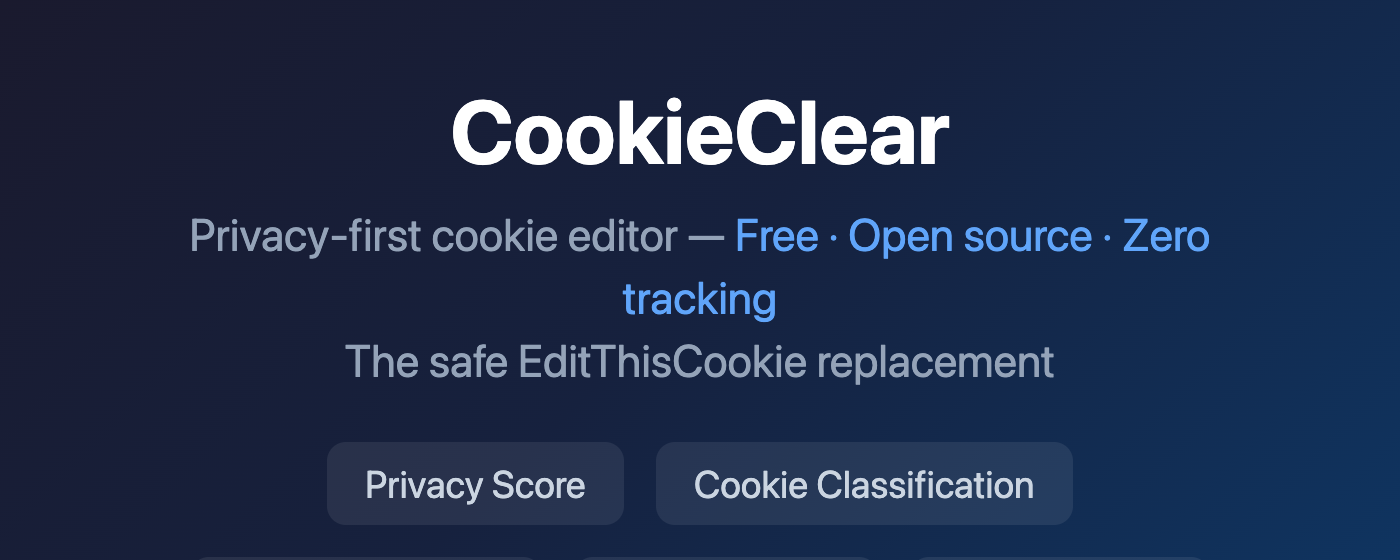
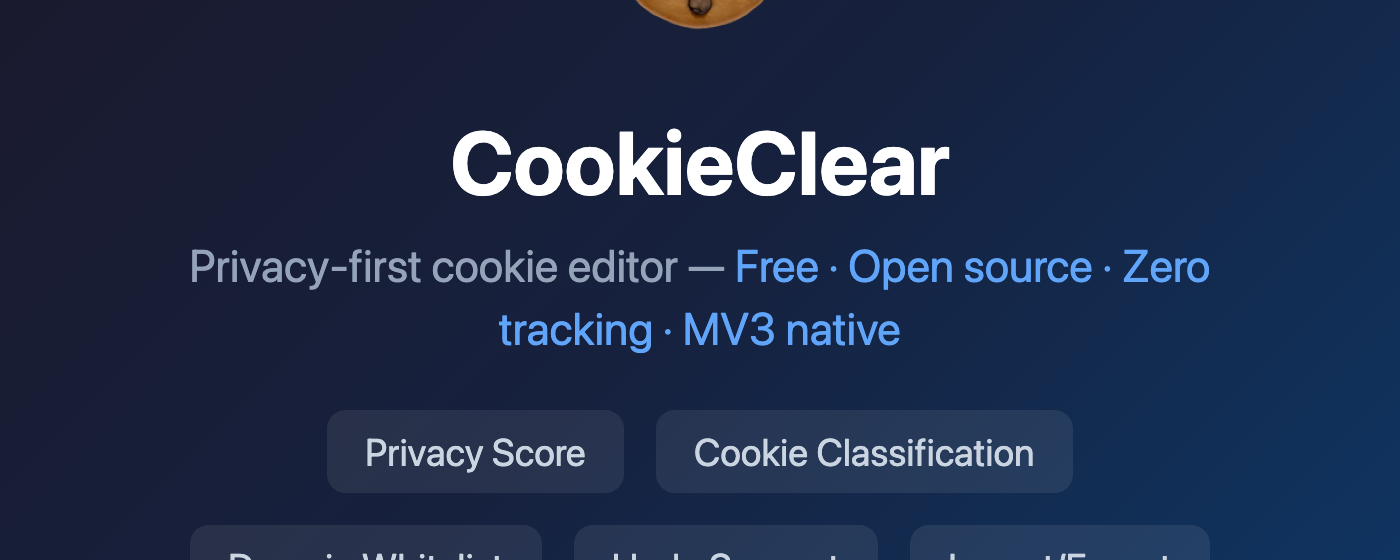
Fix residual competitor name in marquee promo tile
Pre-resubmit audit found the previous "keyword spam" cleanup missed the
marquee promo tile: promo/generate.js still generated a tile reading
"The safe EditThisCookie replacement", so marquee-tile.png (uploaded to
CWS) contained a competitor brand name.

- promo/generate.js: replace competitor tagline with "MV3 native"
- Regenerate small/large/marquee promo tiles (now competitor-name free)
- PRODUCT.md: remove competitor-brand keyword-targeting table
- STATUS.md: log the audit finding + fix

All store-visible assets (store listing, manifest, promo, screenshots)
now contain zero competitor brand names.

diff --git a/promo/generate.js b/promo/generate.js
@@ -84,7 +84,7 @@ async function main() {
       name: 'marquee-tile',
       width: 1400, height: 560,
       title: 'CookieClear',
-      subtitle: 'Privacy-first cookie editor — <span class="accent">Free · Open source · Zero tracking</span><br>The safe EditThisCookie replacement',
+      subtitle: 'Privacy-first cookie editor — <span class="accent">Free · Open source · Zero tracking · MV3 native</span>',
       features: ['Privacy Score', 'Cookie Classification', 'Domain Whitelist', 'Undo Support', 'Import/Export', 'Dark Mode'],
     },
   ];

diff --git a/STATUS.md b/STATUS.md
@@ -1,13 +1,17 @@
 # CookieClear — Project Status
 
-> Last updated: 2026-07-08（SnapMark 已上架，CWS SEO 教训：上架后有 2-7 天索引延迟，搜全称能找到 = 已索引，搜简称找不到 = 排名垫底。上架后立刻去 CWS 后台优化详细描述，秒生效不需要重新审核。）
+> Last updated: 2026-07-09（重新提交前审计：发现上次"关键词堆砌"清理漏了 marquee 宣传图 —— promo/generate.js 仍写着 "The safe EditThisCookie replacement"，marquee-tile.png 由此生成含竞品名。已修脚本并重新生成 3 张宣传图，PRODUCT.md 移除竞品品牌关键词表。商店可见资产现已零竞品名。）
 
 ---
 
 ## Current State: Resubmitting After Rejection 🔧
 
 First submission rejected for "keyword spam" — competitor names in title/description/keywords.
-All competitor references removed. Resubmitting.
+Store text cleaned, but a pre-submission audit (2026-07-09) found a residual competitor name
+baked into the **marquee promo tile** (`promo/generate.js` → `marquee-tile.png` said
+"The safe EditThisCookie replacement"). Fixed the generator and regenerated all 3 tiles;
+removed the competitor-brand keyword table from PRODUCT.md. All store-visible assets now clean.
+Re-upload the regenerated promo tiles to CWS before resubmitting.
 
 ### What's Built
 
@@ -94,6 +98,7 @@ Total: ~83 KB (well under 200KB target)
 | 2026-07-06 | **Bundled tracking list** | Offline classification. Zero network requests — verifiable by anyone. |
 | 2026-07-06 | **Domain whitelist + undo** | User research: these features are frequently requested. Low dev cost, high differentiation. |
 | 2026-07-07 | **Remove competitor names from metadata** | CWS rejected first submission for keyword spam. All competitor references removed from store listing, README, website, and public docs. |
+| 2026-07-09 | **Fix residual competitor name in marquee tile** | Pre-resubmit audit found `promo/generate.js` still generated a marquee tile reading "The safe EditThisCookie replacement". Fixed generator, regenerated all 3 tiles, removed competitor-brand keyword table from PRODUCT.md. |
 
 ---
 

diff --git a/PRODUCT.md b/PRODUCT.md
@@ -236,14 +236,6 @@ The cookie editor market has no validated paid demand. EditThisCookie had 3M fre
 | "free cookie editor" | Price-sensitive users |
 | "cookie privacy score" | Privacy-conscious users |
 
-### Search Keywords (off-store only)
-These keywords should be targeted via blog posts and social media, not CWS metadata:
-| Keyword | Intent |
-|---------|--------|
-| "EditThisCookie replacement" | Direct replacement seeker |
-| "EditThisCookie alternative" | Replacement seeker |
-| "EditThisCookie MV3" | Knows it was removed, looking for new tool |
-
 ### Cross-promotion
 CookieClear promotes ClearJSON and SnapMark within the extension. Three products cover three high-frequency developer needs, cross-promoting each other.
 